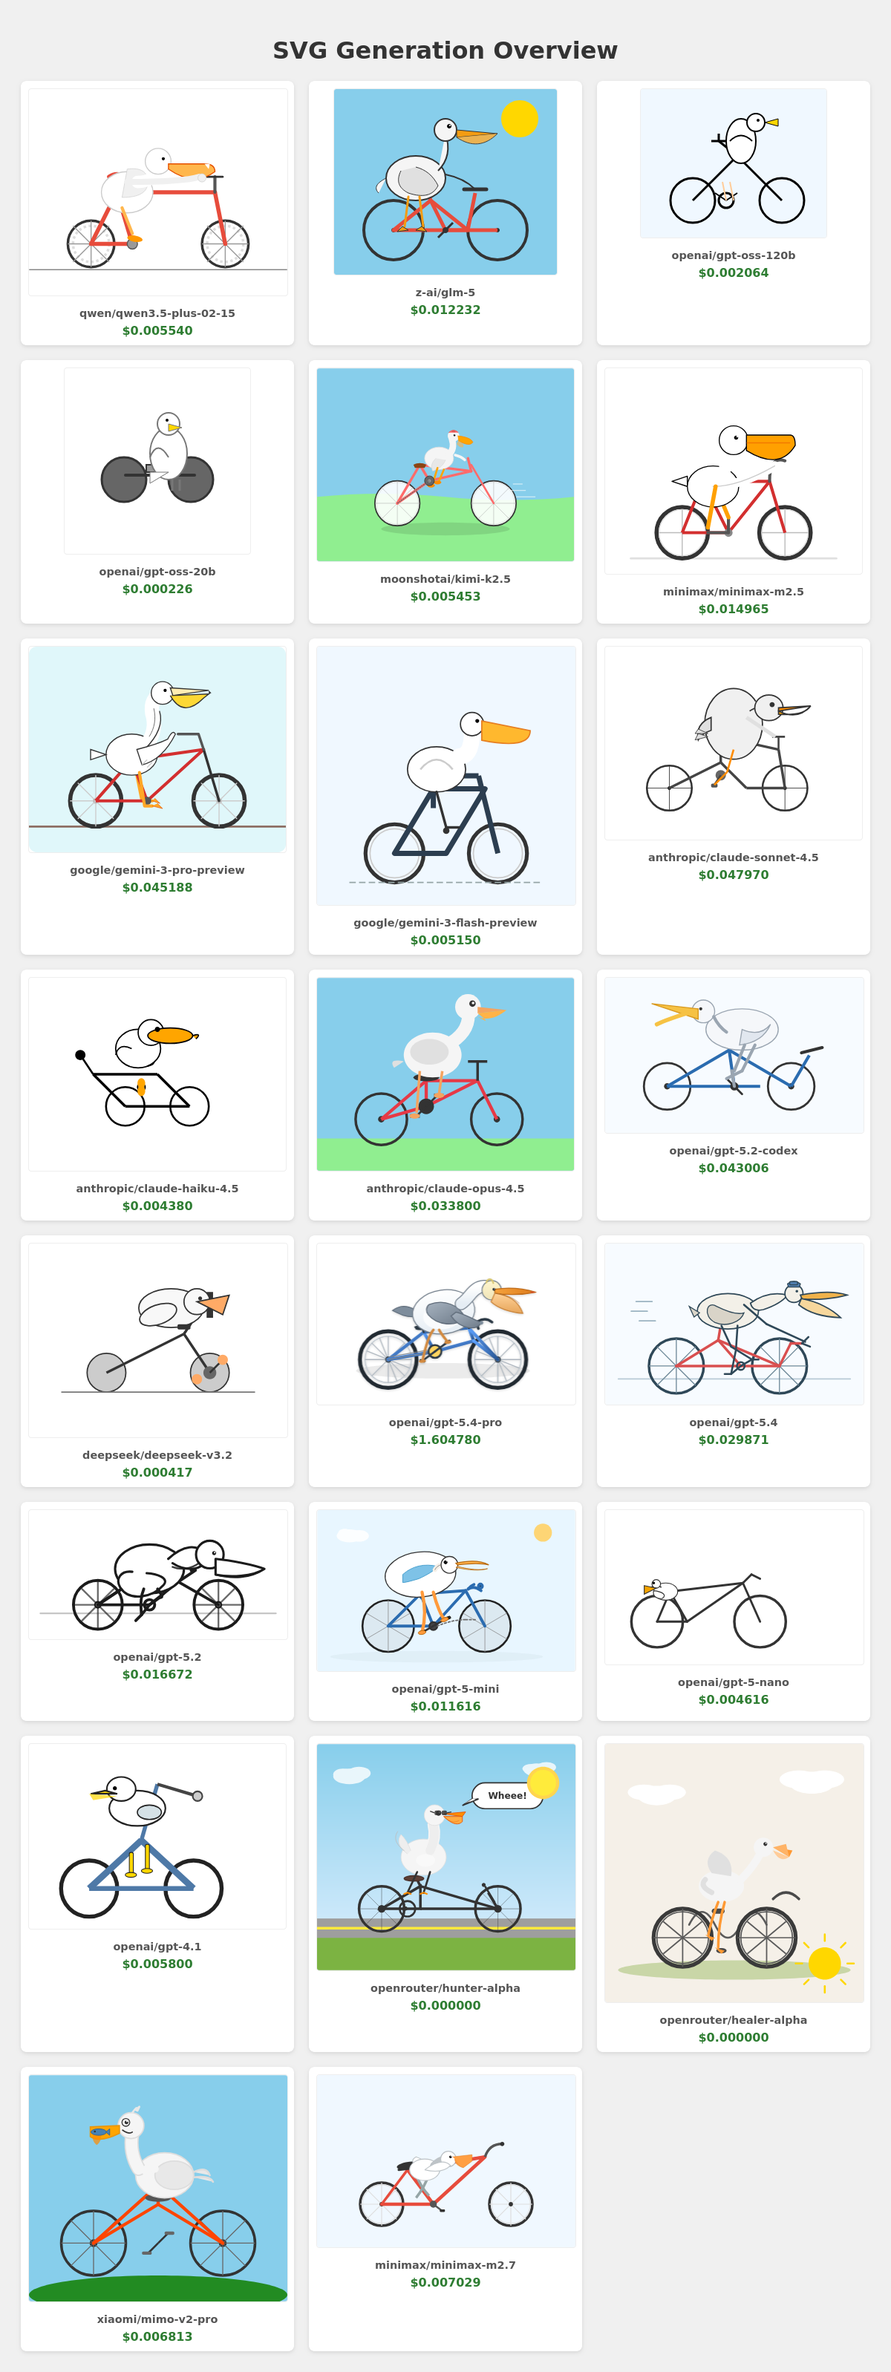
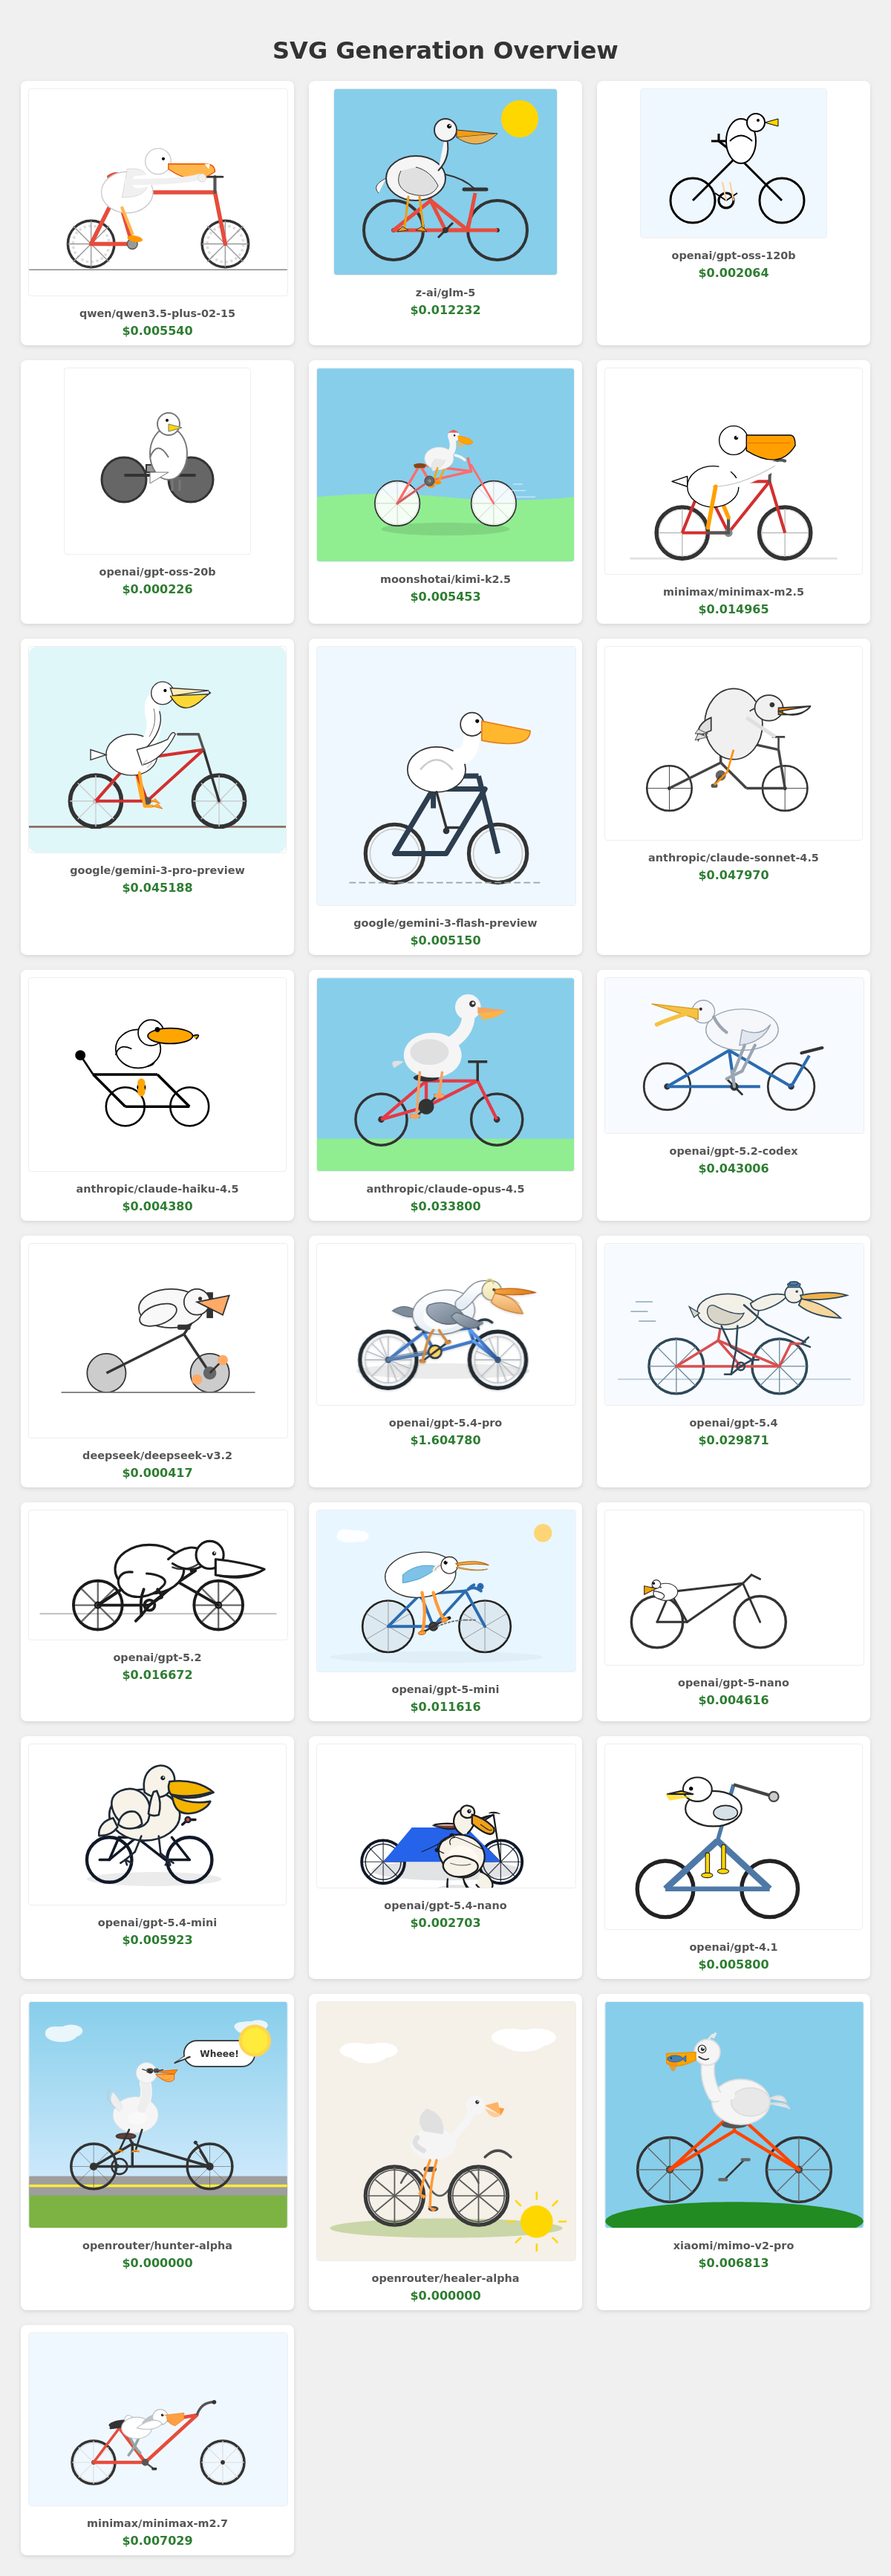
two more gpt models

Changed region(s): [[0.0308, 0.0, 0.6783, 0.9915], [0.6783, 0.1549, 0.9867, 0.8986], [0.74, 0.031, 0.8942, 0.1239]]

diff --git a/svg_outputs/overview.html b/svg_outputs/overview.html
@@ -126,6 +126,18 @@
                 </div>
                 
                 <div class="card">
+                    <img src="openai_gpt-5-4-mini.svg" alt="openai/gpt-5.4-mini">
+                    <div class="model-name">openai/gpt-5.4-mini</div>
+                    <div class="cost ">$0.005923</div>
+                </div>
+                
+                <div class="card">
+                    <img src="openai_gpt-5-4-nano.svg" alt="openai/gpt-5.4-nano">
+                    <div class="model-name">openai/gpt-5.4-nano</div>
+                    <div class="cost ">$0.002703</div>
+                </div>
+                
+                <div class="card">
                     <img src="openai_gpt-4-1.svg" alt="openai/gpt-4.1">
                     <div class="model-name">openai/gpt-4.1</div>
                     <div class="cost ">$0.005800</div>

diff --git a/pelicanTest.js b/pelicanTest.js
@@ -33,6 +33,8 @@ const MODELS = [
     'openai/gpt-5.2',
     'openai/gpt-5-mini',
     'openai/gpt-5-nano',
+    'openai/gpt-5.4-mini',
+    'openai/gpt-5.4-nano',
     'openai/gpt-4.1',
     'openrouter/hunter-alpha',
     'openrouter/healer-alpha',
